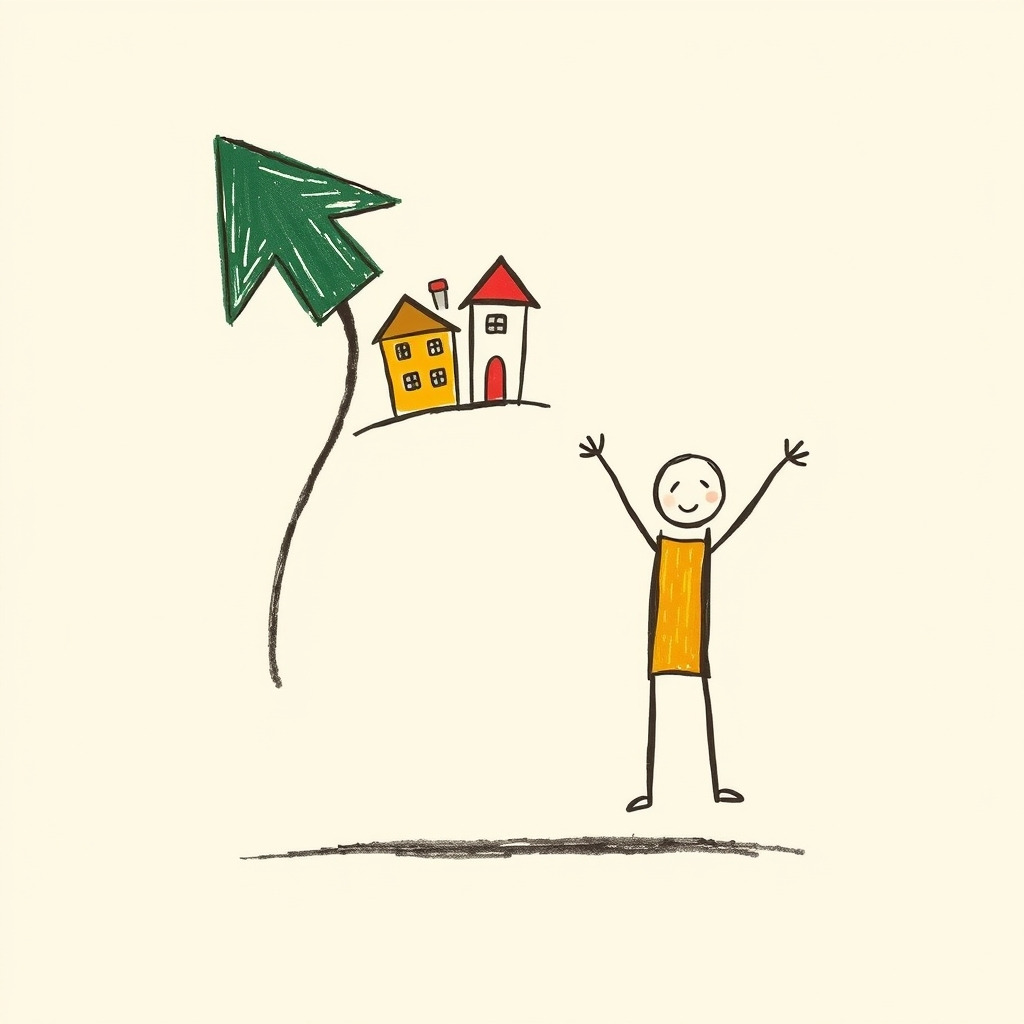
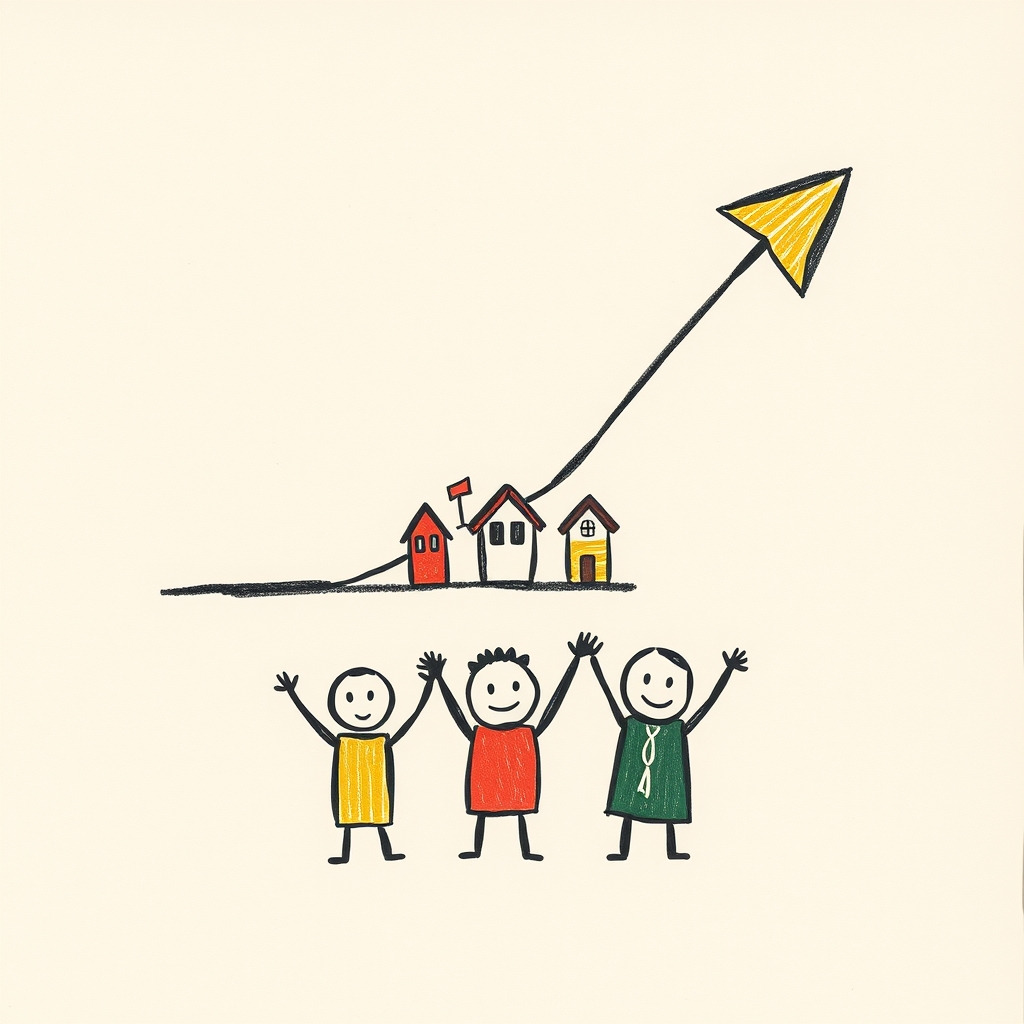
images: fondo por plano para eliminar la costura con el papel y corregir el plano 09

diff --git a/src/videos/lehman/Lehman.tsx b/src/videos/lehman/Lehman.tsx
@@ -13,8 +13,17 @@ const timeline = timelineJson as unknown as Timeline;
 /**
  * Mapa plano -> imagen generada. Lo escribe scripts/generate-images.mjs.
  * Si un plano no esta generado todavia, cae al placeholder dibujado a mano.
+ * Acepta el formato antiguo (string) y el actual ({src, bg}).
  */
-const generated = imagesJson as Record<string, string>;
+type GeneratedImage = string | {src: string; bg?: string};
+
+const generated = imagesJson as unknown as Record<string, GeneratedImage>;
+
+const imageFor = (frame: number) => {
+  const entry = generated[String(frame)];
+  if (typeof entry === 'string') return {src: entry, background: undefined};
+  return {src: entry?.src, background: entry?.bg};
+};
 
 const TITLES: Record<number, string> = {
   1: '158 AÑOS',
@@ -52,14 +61,16 @@ export const Lehman: React.FC = () => {
           1,
           Math.round(scene.end * fps) - from,
         );
+        const image = imageFor(scene.frame);
 
         return (
           <Sequence key={scene.frame} from={from} durationInFrames={durationInFrames}>
             <Scene
               src={
-                generated[String(scene.frame)] ??
+                image.src ??
                 `lehman/${String(scene.frame).padStart(2, '0')}.png`
               }
+              background={image.background}
               index={index}
               durationInFrames={durationInFrames}
             />

diff --git a/src/components/Scene.tsx b/src/components/Scene.tsx
@@ -5,13 +5,16 @@ type Props = {
   src: string;
   index: number;
   durationInFrames: number;
+  /** Color del borde de la imagen: evita la costura contra el papel. */
+  background?: string;
 };
 
 /**
  * Plano con Ken Burns suave. Alterna zoom in / zoom out.
- * La imagen va en "contain": las bandas superior e inferior quedan en papel.
+ * La imagen va en "contain": las bandas superior e inferior quedan
+ * pintadas con el color del propio dibujo.
  */
-export const Scene: React.FC<Props> = ({src, index, durationInFrames}) => {
+export const Scene: React.FC<Props> = ({src, index, durationInFrames, background}) => {
   const frame = useCurrentFrame();
   const zoomIn = index % 2 === 0;
 
@@ -30,7 +33,14 @@ export const Scene: React.FC<Props> = ({src, index, durationInFrames}) => {
   );
 
   return (
-    <AbsoluteFill style={{alignItems: 'center', justifyContent: 'center', overflow: 'hidden'}}>
+    <AbsoluteFill
+      style={{
+        backgroundColor: background ?? 'transparent',
+        alignItems: 'center',
+        justifyContent: 'center',
+        overflow: 'hidden',
+      }}
+    >
       <Img
         src={staticFile(src)}
         style={{
